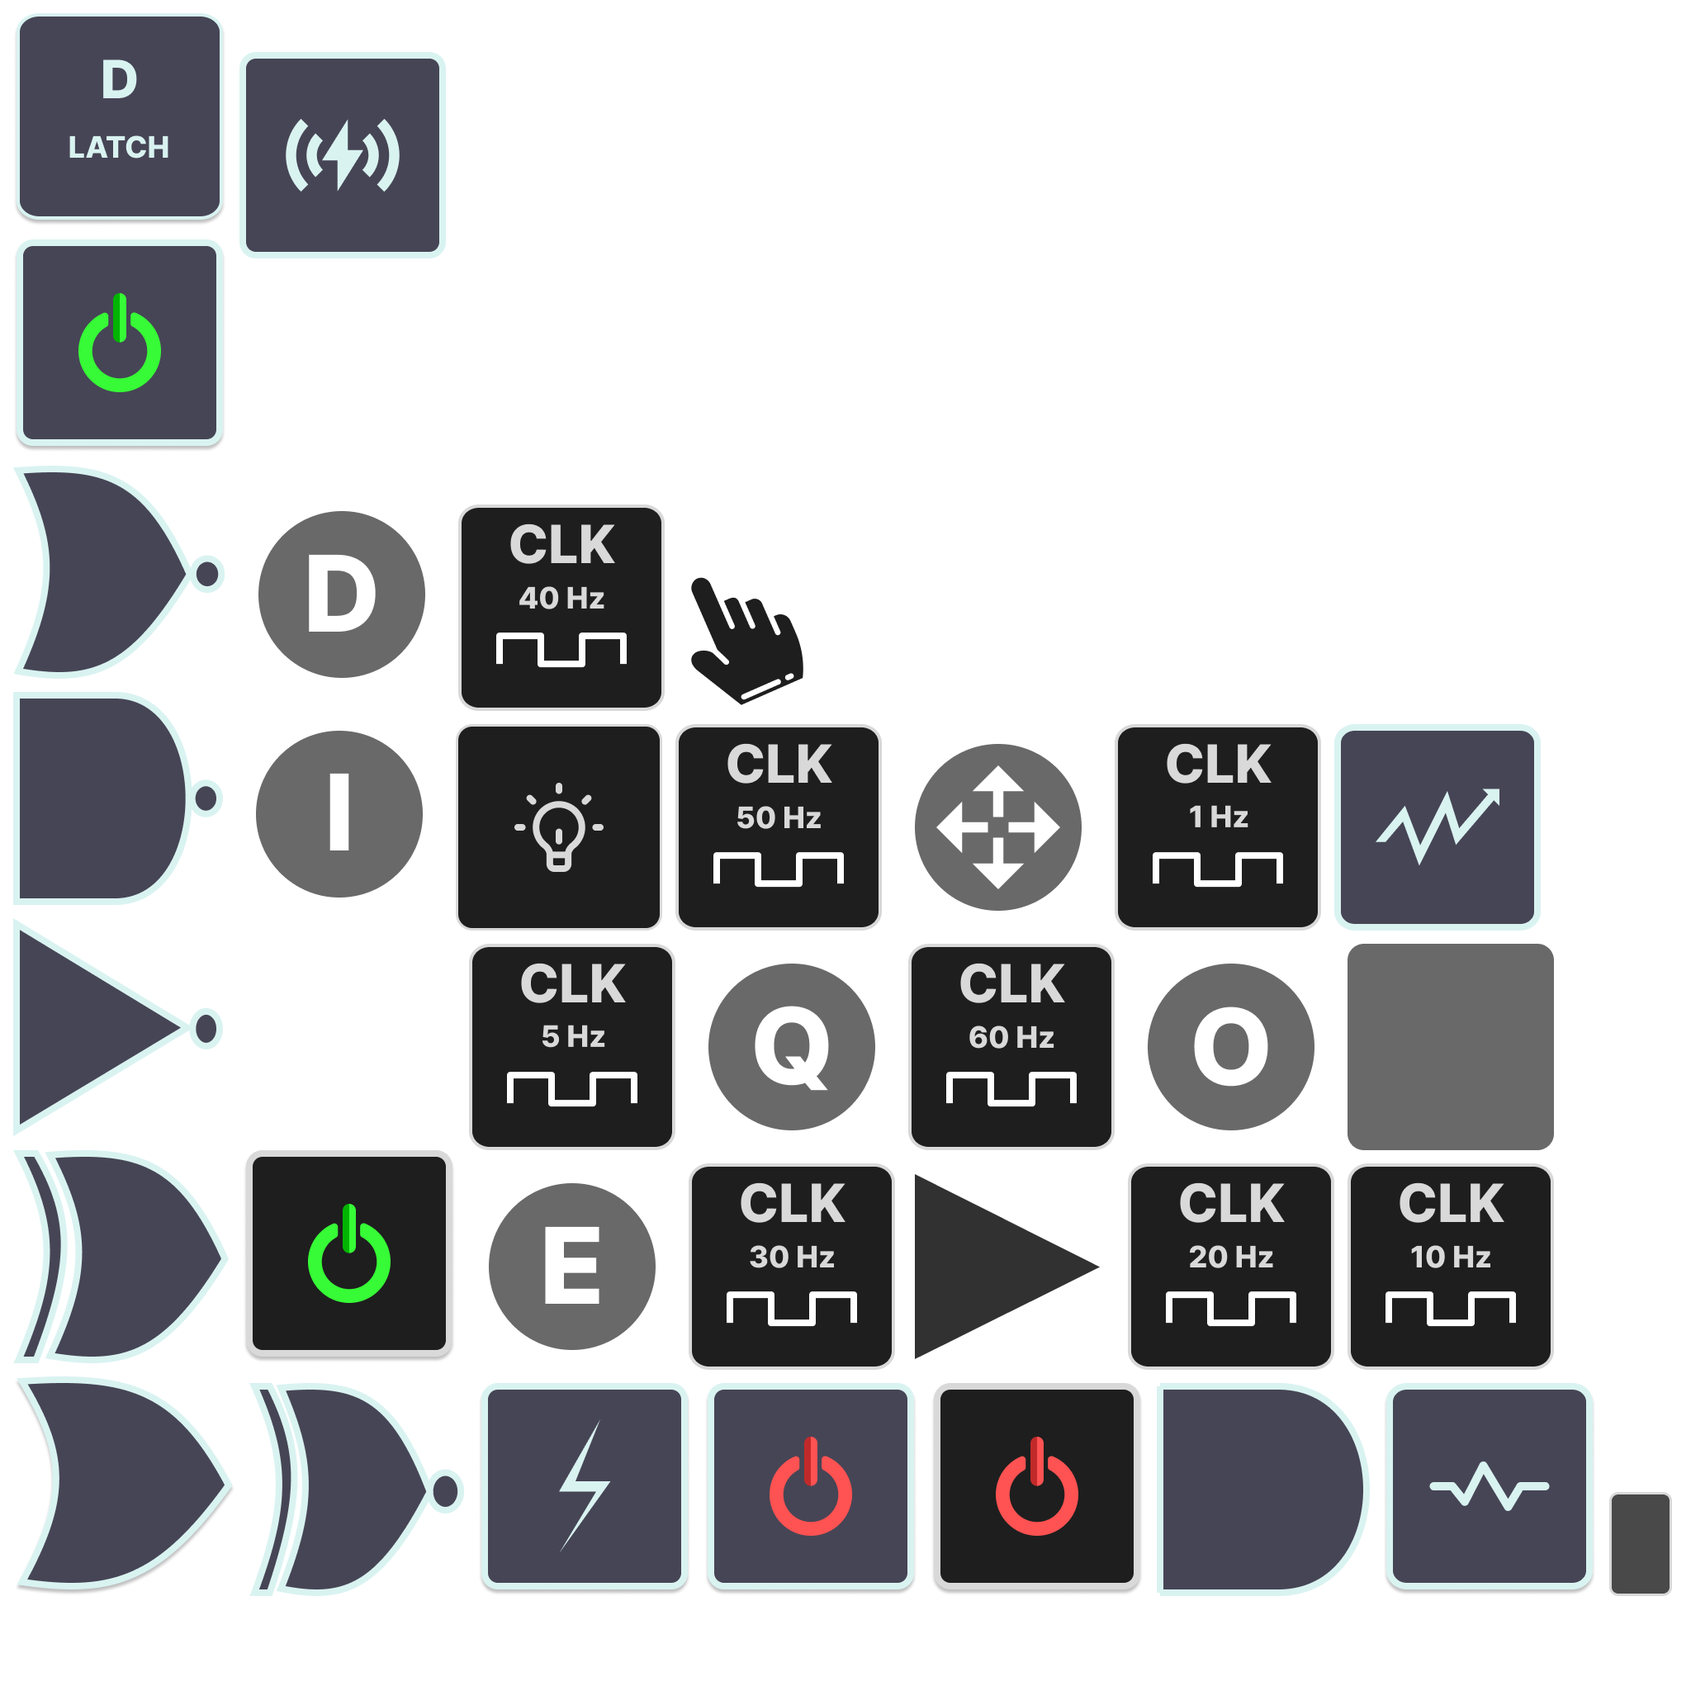
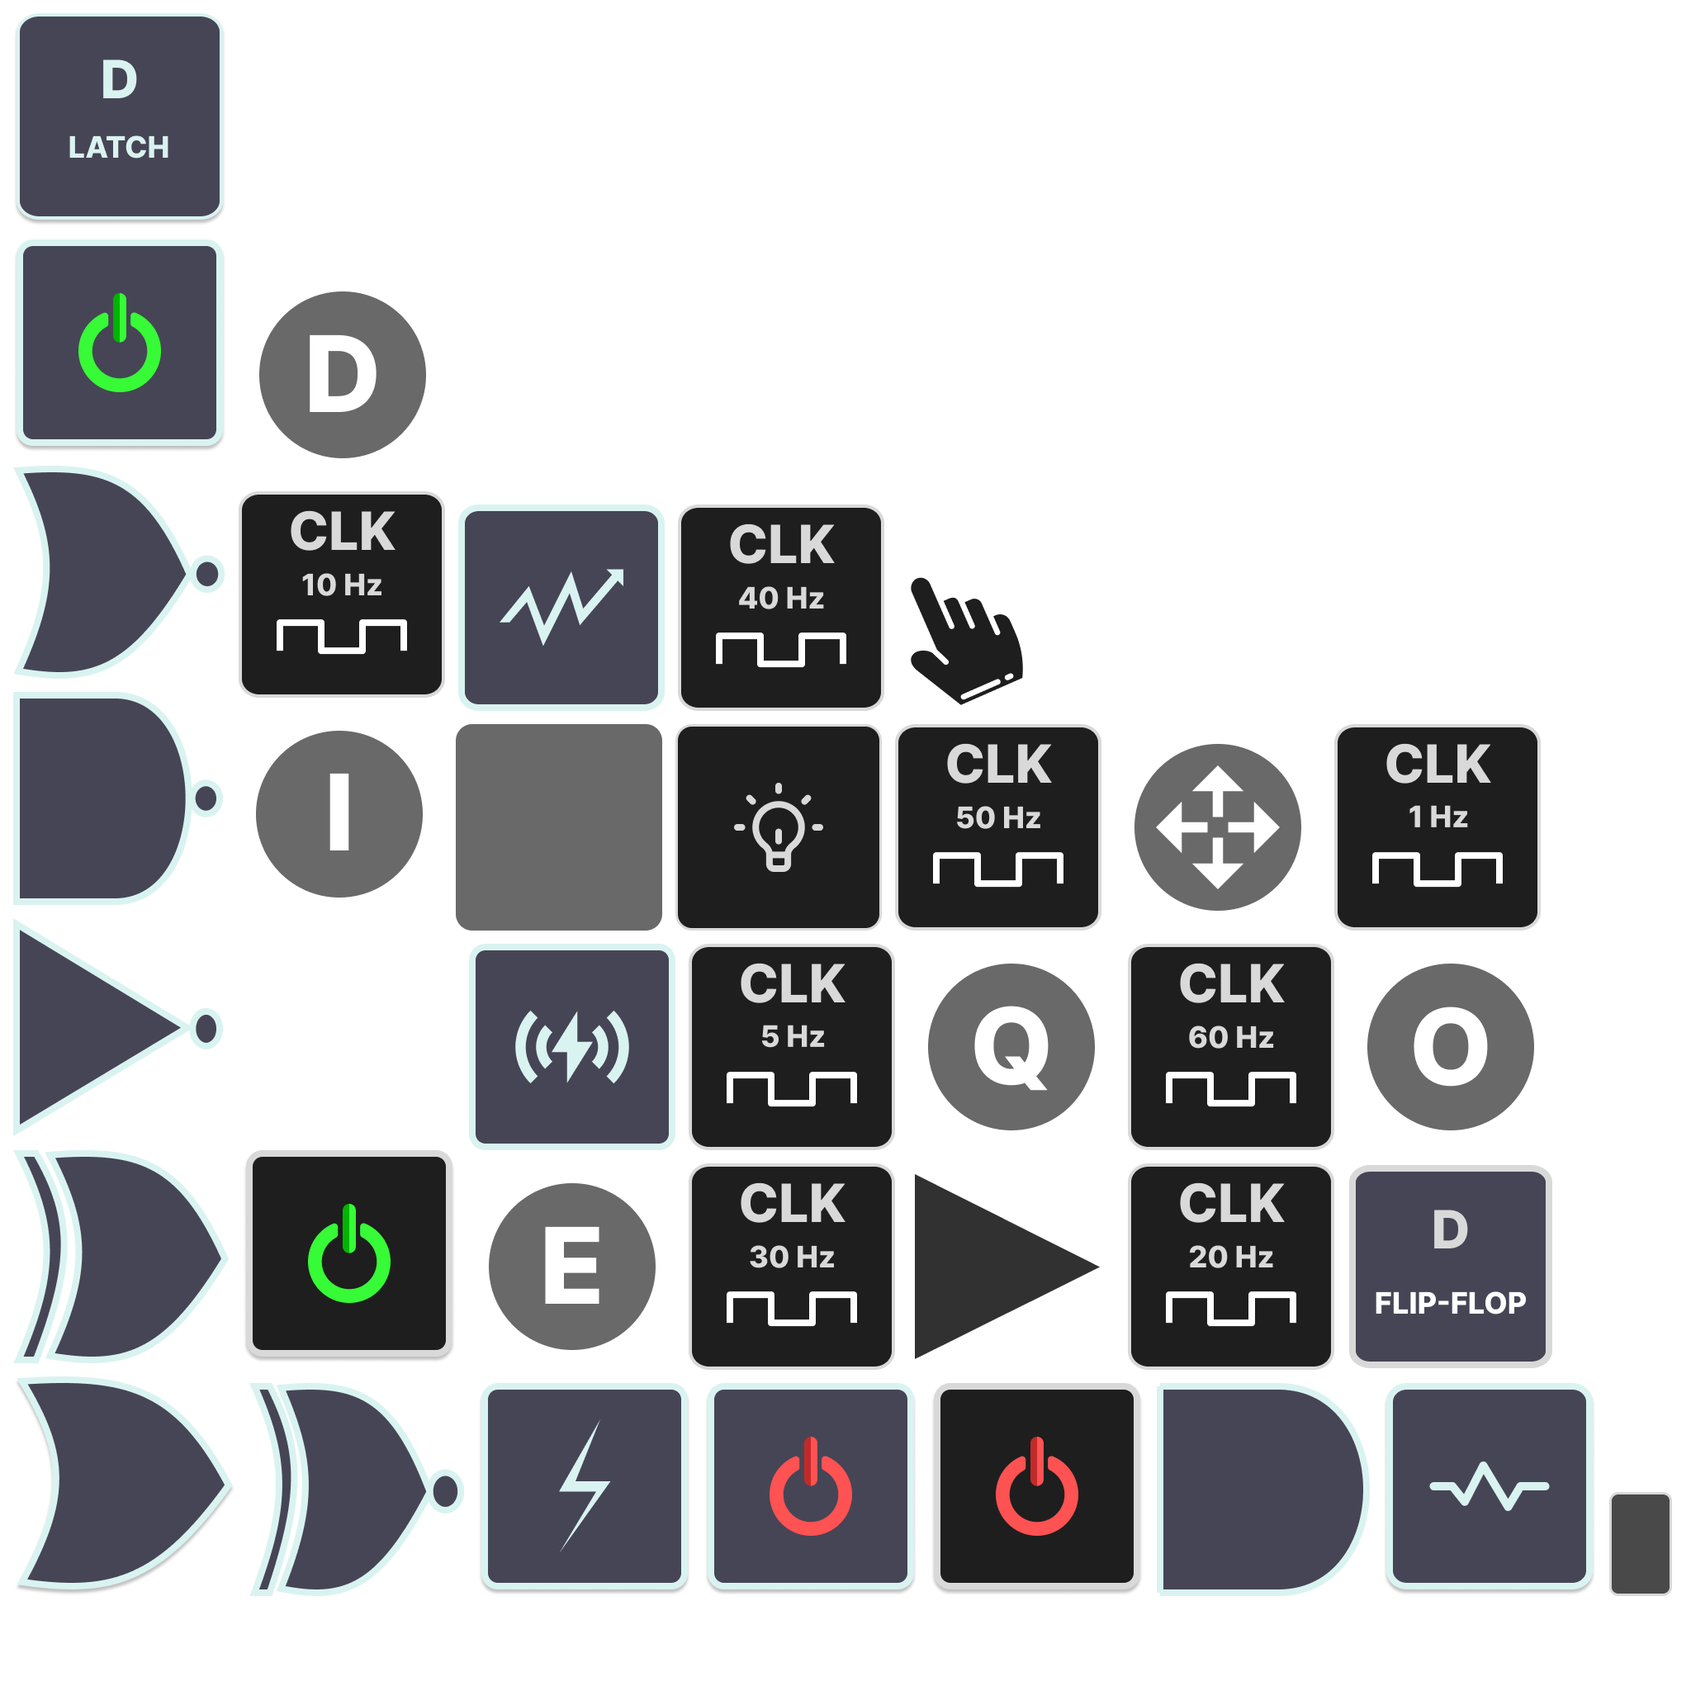
added flip-flop

Changed region(s): [[0.125, 0.0312, 0.9375, 0.8125]]

diff --git a/android/src/main/java/org/engine/simulogic/android/circuits/storage/DataTransferObject.kt b/android/src/main/java/org/engine/simulogic/android/circuits/storage/DataTransferObject.kt
@@ -9,6 +9,7 @@ import org.engine.simulogic.android.circuits.components.CTypes
 import org.engine.simulogic.android.circuits.components.buses.CDataBus
 import org.engine.simulogic.android.circuits.components.buses.CFanOutBus
 import org.engine.simulogic.android.circuits.components.buttons.CPower
+import org.engine.simulogic.android.circuits.components.flipflops.CDFlipFlop
 import org.engine.simulogic.android.circuits.components.gates.CAnd
 import org.engine.simulogic.android.circuits.components.gates.CNand
 import org.engine.simulogic.android.circuits.components.gates.CNor
@@ -96,30 +97,38 @@ class DataTransferObject {
                 stream.writeFloat(component.getPosition().y)
                 stream.writeInt(component.rotationDirection)
                 // save label data
-                if (component is CLabel) {
-                    stream.writeInt(component.text.length)
-                    stream.write(component.text.toByteArray(Charsets.UTF_8))
-                    stream.writeFloat(component.fontSize)
-                } else if (component is CClock) {
-                    stream.writeFloat(component.freq)
-                } else if (component is CPower) {
-                    stream.writeInt(component.value)
-                } else if (component is CDataBus) {
-                    stream.writeInt(component.DATA_SIZE)
-                } else if (component is CFanOutBus) {
-                    stream.writeInt(component.inputSize)
-                    stream.writeInt(component.segments)
-                } else if (component is CGroup) {
-                    stream.writeFloat(component.getWidth())
-                    stream.writeFloat(component.getHeight())
-                    stream.writeInt(component.dataContainer.size())
-                    component.dataContainer.forEach { item ->
-                        stream.writeInt(item.value.id)
+                when(component){
+                    is CLabel->{
+                        stream.writeInt(component.text.length)
+                        stream.write(component.text.toByteArray(Charsets.UTF_8))
+                        stream.writeFloat(component.fontSize)
                     }
-                } else if (component is CChannel) {
-                    stream.writeInt(component.channelId.length)
-                    stream.write(component.channelId.toByteArray(Charsets.UTF_8))
-                    stream.writeInt(component.channelType)
+                    is CClock->{
+                        stream.writeFloat(component.freq)
+                    }
+                    is CPower->{
+                        stream.writeInt(component.value)
+                    }
+                    is CDataBus->{
+                        stream.writeInt(component.DATA_SIZE)
+                    }
+                    is CFanOutBus->{
+                        stream.writeInt(component.inputSize)
+                        stream.writeInt(component.segments)
+                    }
+                    is CGroup->{
+                        stream.writeFloat(component.getWidth())
+                        stream.writeFloat(component.getHeight())
+                        stream.writeInt(component.dataContainer.size())
+                        component.dataContainer.forEach { item ->
+                            stream.writeInt(item.value.id)
+                        }
+                    }
+                    is CChannel->{
+                        stream.writeInt(component.channelId.length)
+                        stream.write(component.channelId.toByteArray(Charsets.UTF_8))
+                        stream.writeInt(component.channelType)
+                    }
                 }
             }
             connection.forEach { listNode ->
@@ -274,7 +283,9 @@ class DataTransferObject {
                     CTypes.LATCH -> {
                         connection.insertNode(ListNode(CLatch(x, y, rotation, scene)))
                     }
-
+                    CTypes.FLIP_FLOP -> {
+                        connection.insertNode(ListNode(CDFlipFlop(x, y, rotation, scene)))
+                    }
                     CTypes.CLOCK -> {
                         connection.insertExecutionPoint(
                             ListNode(

diff --git a/android/src/main/java/org/engine/simulogic/android/circuits/components/flipflops/CDFlipFlop.kt b/android/src/main/java/org/engine/simulogic/android/circuits/components/flipflops/CDFlipFlop.kt
@@ -1,5 +1,4 @@
-package org.engine.simulogic.android.circuits.components.latches
-
+package org.engine.simulogic.android.circuits.components.flipflops
 import com.badlogic.gdx.graphics.g2d.Sprite
 import com.badlogic.gdx.graphics.g2d.TextureAtlas
 import com.badlogic.gdx.graphics.g2d.TextureRegion
@@ -11,21 +10,22 @@ import org.engine.simulogic.android.circuits.components.gates.CSignal
 import org.engine.simulogic.android.circuits.components.lines.CLine
 import org.engine.simulogic.android.scene.LayerEnums
 import org.engine.simulogic.android.scene.PlayGroundScene
-
-class CLatch(x:Float, y:Float, rotationDirection:Int, private val scene: PlayGroundScene) :CNode(){
+class CDFlipFlop(x:Float, y:Float, rotationDirection:Int, private val scene: PlayGroundScene) :CNode(){
 
     private val lines = mutableListOf<CLine>()
+    private var previousEdge = -1
     constructor(x:Float, y:Float, scene: PlayGroundScene):this(x, y, ROTATE_RIGHT, scene)
     init {
 
         val textureAtlas = scene.assetManager.get("component.atlas", TextureAtlas::class.java)
-        val spriteRegion = textureAtlas.findRegion("D-LATCH")
+        val spriteRegion = textureAtlas.findRegion("D-FLIP-FLOP")
         type = CTypes.LATCH
         this.rotationDirection = rotationDirection
         sprite = Sprite(spriteRegion).apply {
             setOrigin(x , y)
             setSize(CDefaults.latchWidth, CDefaults.latchHeight)
             setOriginCenter()
+            type = CTypes.FLIP_FLOP
             when(rotationDirection){
                 ROTATE_BOTTOM->{
                     rotation = 270f
@@ -78,9 +78,12 @@ class CLatch(x:Float, y:Float, rotationDirection:Int, private val scene: PlayGro
         val outputQ = signals[0]
         val inputD = signals[1]
         val inputE = signals[2]
-        if(inputE.value == SIGNAL_ACTIVE){
+        val hasEdge = value != inputE.value
+        if(hasEdge){
             outputQ.value = inputD.value
+            value = inputE.value
         }
+
     }
 
     override fun attachSelf() {
@@ -215,7 +218,7 @@ class CLatch(x:Float, y:Float, rotationDirection:Int, private val scene: PlayGro
     }
 
     override fun clone():CNode {
-        return CLatch(getPosition().x,getPosition().y, rotationDirection, scene )
+        return CDFlipFlop(getPosition().x,getPosition().y, rotationDirection, scene )
     }
 
 }

diff --git a/android/src/main/java/org/engine/simulogic/android/circuits/logic/Executor.kt b/android/src/main/java/org/engine/simulogic/android/circuits/logic/Executor.kt
@@ -1,6 +1,7 @@
 package org.engine.simulogic.android.circuits.logic
 
 import org.engine.simulogic.android.circuits.components.interfaces.IExecutable
+import org.engine.simulogic.android.circuits.components.lines.LineMarker
 import java.util.LinkedList
 import java.util.Queue
 
@@ -15,17 +16,19 @@ class Executor(private val connection:Connection):IExecutable {
                 executableNodes.add(it)
             }
             val visitedNodes = mutableListOf<ListNode>()
+            val feedForward = mutableMapOf<LineMarker, Int>()
             while (executableNodes.isNotEmpty()) {
                 executableNodes.poll()?.also { node ->
                     node.value.execute()
                         synchronized(node.getLineMarkerChildren()) {
                             node.getLineMarkerChildren().forEach { marker ->
-                                marker.to.value.signals[marker.signalTo].value =
-                                    node.value.signals[marker.signalFrom].value
                                 if(!marker.to.visited) {
+                                    marker.to.value.signals[marker.signalTo].value =
+                                        node.value.signals[marker.signalFrom].value
                                     executableNodes.offer(marker.to)
                                 }else{
-                                    marker.to.value.execute()
+                                    feedForward[marker] = node.value.signals[marker.signalFrom].value
+                                    // marker.to.value.execute()
                                 }
                         }
                     }
@@ -33,9 +36,16 @@ class Executor(private val connection:Connection):IExecutable {
                 }
             }
 
+            feedForward.forEach {
+                it.key.also { marker->
+                    marker.to.value.signals[marker.signalTo].value = it.value
+                    marker.to.value.execute()
+                }
+            }
             visitedNodes.forEach {
                 it.visited = false
             }
+
         }
 
     }

diff --git a/android/src/main/java/org/engine/simulogic/android/circuits/tools/CopyTool.kt b/android/src/main/java/org/engine/simulogic/android/circuits/tools/CopyTool.kt
@@ -37,18 +37,13 @@ class CopyTool(
             val data = dataContainer[i]
 
              data.clone().also { clone->
-                 snapAlign.getSnapCoordinates(clone.value.getPosition().x - ox + originX,
-                     clone.value.getPosition().y - oy + originY).also { coordinates->
-                     clone.value.updatePosition( coordinates.x, coordinates.y)
-                 }
+                 clone.value.updatePosition(clone.value.getPosition().x - ox + originX,
+                     clone.value.getPosition().y - oy + originY)
 
                  // create a copy of all group children
                  if(data.value is CGroup && clone.value is CGroup){
                      CopyTool(data.value.dataContainer, data.value.connection, commandHistory).also { copyTool ->
-                         snapAlign.getSnapCoordinates(data.value.getPosition().x - ox + originX,
-                             data.value.getPosition().y - oy + originY).also { coordinates->
-                             clone.value.insert(copyTool.execute(coordinates.x, coordinates.y, scene))
-                         }
+                       clone.value.insert(copyTool.execute(data.value.getPosition().x - ox + originX, data.value.getPosition().y - oy + originY, scene))
                      }
                  }
 
@@ -74,9 +69,7 @@ class CopyTool(
                         lineMarker.signals.forEachIndexed{indexPoint,originPoint->
                             val px = originPoint.getPosition().x - ox
                             val py = originPoint.getPosition().y - oy
-                            snapAlign.getSnapCoordinates(originX + px, originY + py).also { coordinates->
-                                lineMarkerClone.signals[indexPoint].updatePosition(coordinates.x, coordinates.y)
-                            }
+                             lineMarkerClone.signals[indexPoint].updatePosition(originX + px,originY + py)
 
                         }
                         clone.insertChildUnmarked(cloneChild,lineMarkerClone)

diff --git a/android/src/main/java/org/engine/simulogic/android/circuits/logic/ComponentManager.kt b/android/src/main/java/org/engine/simulogic/android/circuits/logic/ComponentManager.kt
@@ -5,6 +5,7 @@ import com.badlogic.gdx.graphics.g2d.BitmapFont
 import org.engine.simulogic.android.circuits.components.buses.CDataBus
 import org.engine.simulogic.android.circuits.components.buses.CFanOutBus
 import org.engine.simulogic.android.circuits.components.buttons.CPower
+import org.engine.simulogic.android.circuits.components.flipflops.CDFlipFlop
 import org.engine.simulogic.android.circuits.components.gates.CAnd
 import org.engine.simulogic.android.circuits.components.gates.CNand
 import org.engine.simulogic.android.circuits.components.gates.CNor
@@ -126,6 +127,13 @@ class ComponentManager(private val projectOptions: ProjectOptions,private val ex
         gestureListener.rectPointer.getPosition().also { position ->
             snapAlign.getSnapCoordinates(position).also { coordinates ->
                 connection.insertNode(ListNode(CLatch(coordinates.x, coordinates.y, scene)))
+            }
+        }
+    }
+    fun insertCDFlipFlop(){
+        gestureListener.rectPointer.getPosition().also { position ->
+            snapAlign.getSnapCoordinates(position).also { coordinates ->
+                connection.insertNode(ListNode(CDFlipFlop(coordinates.x, coordinates.y, scene)))
             }
         }
     }

diff --git a/android/src/main/java/org/engine/simulogic/android/views/ComponentBottomSheet.kt b/android/src/main/java/org/engine/simulogic/android/views/ComponentBottomSheet.kt
@@ -32,6 +32,7 @@ class ComponentBottomSheet(private val listener: IComponentAdapterListener? = nu
          const val CLOCK_COMPONENT_60HZ = "60Hz"
          const val CLOCK_COMPONENT_CUSTOM = "CUSTOM"
          const val D_LATCH_COMPONENT = "D-LATCH"
+         const val D_FLIP_FLOP_COMPONENT = "D-FLIP-FLOP"
          const val LED_COMPONENT = "LED"
          const val POWER_ON_COMPONENT = "POWER ON"
          const val POWER_OFF_COMPONENT = "POWER OFF"
@@ -81,6 +82,7 @@ class ComponentBottomSheet(private val listener: IComponentAdapterListener? = nu
         clockAdapter.insert(CLOCK_COMPONENT_CUSTOM, R.drawable.clock_custom)
         val generalAdapter = ComponentViewAdapter()
         generalAdapter.insert(D_LATCH_COMPONENT, R.drawable.d_latch)
+        generalAdapter.insert(D_FLIP_FLOP_COMPONENT, R.drawable.d_flip_flop)
         generalAdapter.insert(LED_COMPONENT, R.drawable.component_led)
         generalAdapter.insert(POWER_ON_COMPONENT, R.drawable.power_on)
         generalAdapter.insert(POWER_OFF_COMPONENT, R.drawable.power_off)

diff --git a/android/src/main/java/org/engine/simulogic/android/circuits/components/buttons/CPower.kt b/android/src/main/java/org/engine/simulogic/android/circuits/components/buttons/CPower.kt
@@ -138,6 +138,9 @@ class CPower(signalValue:Int,x:Float, y:Float,rotationDirection:Int = ROTATE_RIG
         }
     }
 
+    override fun reset() {
+        //do nothing
+    }
     override fun contains(entity: CNode): CNode? {
         val parentCollides = super.contains(entity)
         if(parentCollides != null){
@@ -177,6 +180,7 @@ class CPower(signalValue:Int,x:Float, y:Float,rotationDirection:Int = ROTATE_RIG
     override fun clone():CNode {
         return CPower(value,getPosition().x,getPosition().y,rotationDirection, scene )
     }
+
 
 
 

diff --git a/android/src/main/java/org/engine/simulogic/android/views/SimulationFragment.kt b/android/src/main/java/org/engine/simulogic/android/views/SimulationFragment.kt
@@ -233,6 +233,10 @@ class SimulationFragment(
                     simulationLoop.componentManager.insertCLatch()
                 }
 
+                ComponentBottomSheet.D_FLIP_FLOP_COMPONENT -> {
+                    simulationLoop.componentManager.insertCDFlipFlop()
+                }
+
                 ComponentBottomSheet.LED_COMPONENT -> {
                     simulationLoop.componentManager.insertCLed()
                 }

diff --git a/android/src/main/java/org/engine/simulogic/android/circuits/components/CNode.kt b/android/src/main/java/org/engine/simulogic/android/circuits/components/CNode.kt
@@ -66,6 +66,13 @@ open class CNode : Entity(), ICollidable,IExecutable{
         updatePosition(position.x,position.y)
     }
 
+    open fun reset(){
+        signals.forEach {
+            it.reset()
+        }
+        value = 0
+    }
+
     override fun draw(spriteBatch: SpriteBatch) {
 
         data.forEach {

diff --git a/android/src/main/java/org/engine/simulogic/android/circuits/logic/ListNode.kt b/android/src/main/java/org/engine/simulogic/android/circuits/logic/ListNode.kt
@@ -34,6 +34,8 @@ class ListNode(val value : CNode,
 
     fun removeMarker(marker: LineMarker){
          next.removeIf { it == marker.from }
+         marker.from.value.reset()
+         marker.to.value.reset()
          lineMarkersChildren.remove(marker)
         AutoSave.dataChanged = true
     }

diff --git a/android/src/main/java/org/engine/simulogic/android/circuits/components/other/CRangeSelect.kt b/android/src/main/java/org/engine/simulogic/android/circuits/components/other/CRangeSelect.kt
@@ -113,7 +113,7 @@ open class CRangeSelect(x:Float, y:Float, val connection: Connection, private va
         }
     }
 
-    fun reset(){
+    override fun reset(){
         rangeItems.forEach {
             it.subject.selected = false
             it.caller.value.selected = false

diff --git a/android/src/main/java/org/engine/simulogic/android/circuits/components/CTypes.kt b/android/src/main/java/org/engine/simulogic/android/circuits/components/CTypes.kt
@@ -9,6 +9,7 @@ enum class CTypes {
     XNOR,
     CLOCK,
     LATCH,
+    FLIP_FLOP,
     WIRE,
     RANDOM,
     LED,
